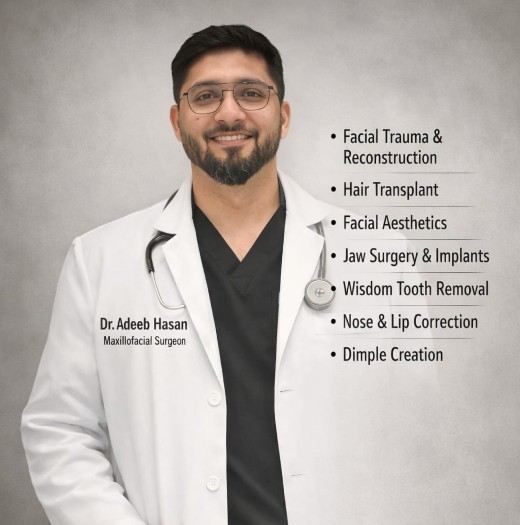
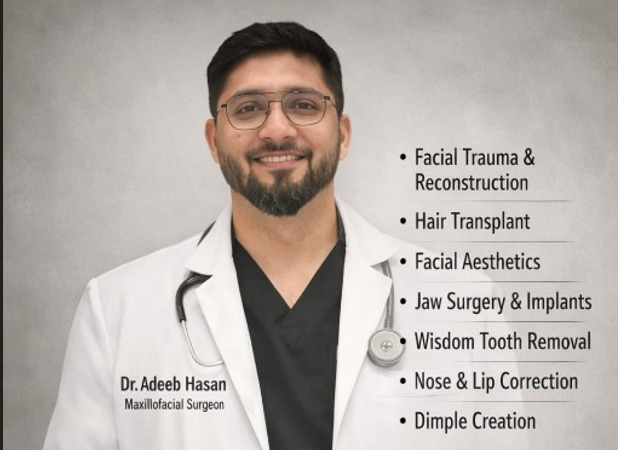
Added active service links in footer and changes of images in home page

Changed region(s): [[0.0, 0.0, 0.9538, 1.0], [0.5231, 0.9022, 0.5538, 1.0], [0.8308, 0.9956, 0.8615, 1.0]]

diff --git a/frontend/src/app/components/Footer.tsx b/frontend/src/app/components/Footer.tsx
@@ -1,47 +1,48 @@
 import React from 'react';
-import { Link } from 'react-router-dom';
+import { Link, useLocation } from 'react-router-dom';
 import { Phone, Mail, MapPin, Instagram } from 'lucide-react';
+import { cn } from '../lib/utils';
 
 export function Footer() {
+  const location = useLocation();
+
+  const serviceLinks = [
+    { name: 'Full Smile Rehabilitation', path: '/services/full-smile-rehabilitation' },
+    { name: 'Correction Of Midline', path: '/services/correction-of-midline' },
+    { name: 'Anterior Crown Restoration', path: '/services/anterior-crown-restoration' },
+    { name: 'Posterior Bridge Treatment', path: '/services/posterior-bridge-treatment' },
+    { name: 'Tooth Whitening', path: '/services/tooth-whitening' },
+    { name: 'Dental Implants', path: '/services/dental-implants' },
+  ];
+
   return (
     <footer className="bg-[#0F3D3E] text-white pt-16 pb-8">
-
       <div className="container mx-auto px-4 md:px-6">
 
         <div className="grid grid-cols-1 md:grid-cols-2 lg:grid-cols-4 gap-12 mb-12">
 
-
           {/* Brand */}
           <div className="space-y-4">
-
             <div className="flex items-center gap-2 mb-4">
-
               <div className="w-10 h-10 rounded-full bg-white/10 flex items-center justify-center text-white font-serif text-xl font-bold border border-white/20">
                 V
               </div>
-
               <div>
                 <h3 className="font-serif text-xl font-bold leading-tight">
                   Varma's
                 </h3>
-
                 <p className="text-[10px] tracking-widest uppercase text-[#C6A969] font-medium">
                   Dental Clinic
                 </p>
               </div>
-
             </div>
-
 
             <p className="text-gray-300 text-sm leading-relaxed max-w-xs">
               Providing comprehensive dental care including cosmetic, restorative,
               and preventive treatments using modern technology in Srikakulam.
             </p>
 
-
-            {/* Instagram */}
             <div className="flex gap-4 pt-2">
-
               <a
                 href="https://instagram.com/"
                 target="_blank"
@@ -50,155 +51,122 @@ export function Footer() {
               >
                 <Instagram className="w-4 h-4" />
               </a>
-
             </div>
-
           </div>
-
 
           {/* Quick Links */}
           <div>
-
             <h4 className="font-serif text-lg font-semibold mb-6 text-[#C6A969]">
               Quick Links
             </h4>
 
-            <ul className="space-y-3 text-sm text-gray-300">
-
-              <li>
-                <Link to="/" className="hover:text-white transition-colors">
-                  Home
-                </Link>
-              </li>
-
-              <li>
-                <Link to="/about" className="hover:text-white transition-colors">
-                  About Dr. Varma
-                </Link>
-              </li>
-
-              <li>
-                <Link to="/cases" className="hover:text-white transition-colors">
-                  Case Gallery
-                </Link>
-              </li>
-
-              <li>
-                <Link to="/contact" className="hover:text-white transition-colors">
-                  Contact Us
-                </Link>
-              </li>
-
+            <ul className="space-y-3 text-sm">
+              {[
+                { name: 'Home', path: '/' },
+                { name: 'About Dr. Varma', path: '/about' },
+                { name: 'Case Gallery', path: '/cases' },
+                { name: 'Contact Us', path: '/contact' },
+              ].map((link) => (
+                <li key={link.path}>
+                  <Link
+                    to={link.path}
+                    className={cn(
+                      'transition-colors',
+                      location.pathname === link.path
+                        ? 'text-white font-semibold'
+                        : 'text-gray-300 hover:text-white'
+                    )}
+                  >
+                    {link.name}
+                  </Link>
+                </li>
+              ))}
             </ul>
-
           </div>
-
 
           {/* Services */}
           <div>
-
             <h4 className="font-serif text-lg font-semibold mb-6 text-[#C6A969]">
               Services
             </h4>
 
-            <ul className="space-y-3 text-sm text-gray-300">
-
-              <li>General Dentistry</li>
-              <li>Cosmetic Dentistry</li>
-              <li>Zirconia Crowns</li>
-              <li>Dental Implants</li>
-              <li>Root Canal Treatment</li>
-              <li>Smile Restoration</li>
-
+            <ul className="space-y-3 text-sm">
+              {serviceLinks.map((service) => (
+                <li key={service.path}>
+                  <Link
+                    to={service.path}
+                    className={cn(
+                      'transition-colors',
+                      location.pathname === service.path
+                        ? 'text-white font-semibold'
+                        : 'text-gray-300 hover:text-white'
+                    )}
+                  >
+                    {service.name}
+                  </Link>
+                </li>
+              ))}
             </ul>
-
           </div>
-
 
           {/* Contact */}
           <div>
-
             <h4 className="font-serif text-lg font-semibold mb-6 text-[#C6A969]">
               Contact Us
             </h4>
 
             <ul className="space-y-4 text-sm text-gray-300">
-
-
-              {/* Address */}
               <li className="flex items-start gap-3">
-
                 <MapPin className="w-5 h-5 text-[#C6A969] shrink-0 mt-0.5" />
-
                 <span>
                   Near Ramalaxmana Junction,<br />
                   Opp Shanthi Hospital, Ground Floor,<br />
                   Srikakulam, Andhra Pradesh, India
                 </span>
-
               </li>
 
-
-              {/* Phone */}
               <li className="flex items-center gap-3">
-
                 <Phone className="w-5 h-5 text-[#C6A969] shrink-0" />
-
                 <a
                   href="tel:+919502293434"
                   className="hover:text-white transition-colors"
                 >
                   +91 9502293434
                 </a>
-
               </li>
 
-
-              {/* Email */}
               <li className="flex items-center gap-3">
-
                 <Mail className="w-5 h-5 text-[#C6A969] shrink-0" />
-
                 <a
                   href="mailto:nadimpallivarma@gmail.com"
                   className="hover:text-white transition-colors"
                 >
                   nadimpallivarma@gmail.com
                 </a>
-
               </li>
-
-
             </ul>
-
           </div>
 
         </div>
 
-
         {/* Bottom */}
         <div className="border-t border-white/10 pt-8 flex flex-col md:flex-row justify-between items-center gap-4 text-xs text-gray-400">
-
           <p>
             © {new Date().getFullYear()} Varma's Multispeciality Dental Clinic. All rights reserved.
           </p>
 
           <div className="flex gap-6">
-
             <span className="hover:text-white transition-colors cursor-default">
               Privacy Policy
             </span>
-
             <span className="hover:text-white transition-colors cursor-default">
               Terms of Service
             </span>
-
           </div>
-
         </div>
 
       </div>
-
     </footer>
   );
 }
+

diff --git a/frontend/src/app/pages/Home.tsx b/frontend/src/app/pages/Home.tsx
@@ -72,8 +72,8 @@ export default function Home() {
 
             <div className="relative flex justify-center">
               <img
-                src="/images/children-home.jpeg"
-                alt="Children Home"
+                src="/images/doctor-profile2.jpeg"
+                alt="Doctor Profile"
                 className="rounded-3xl shadow-2xl w-full max-w-md object-cover"
               />
 
